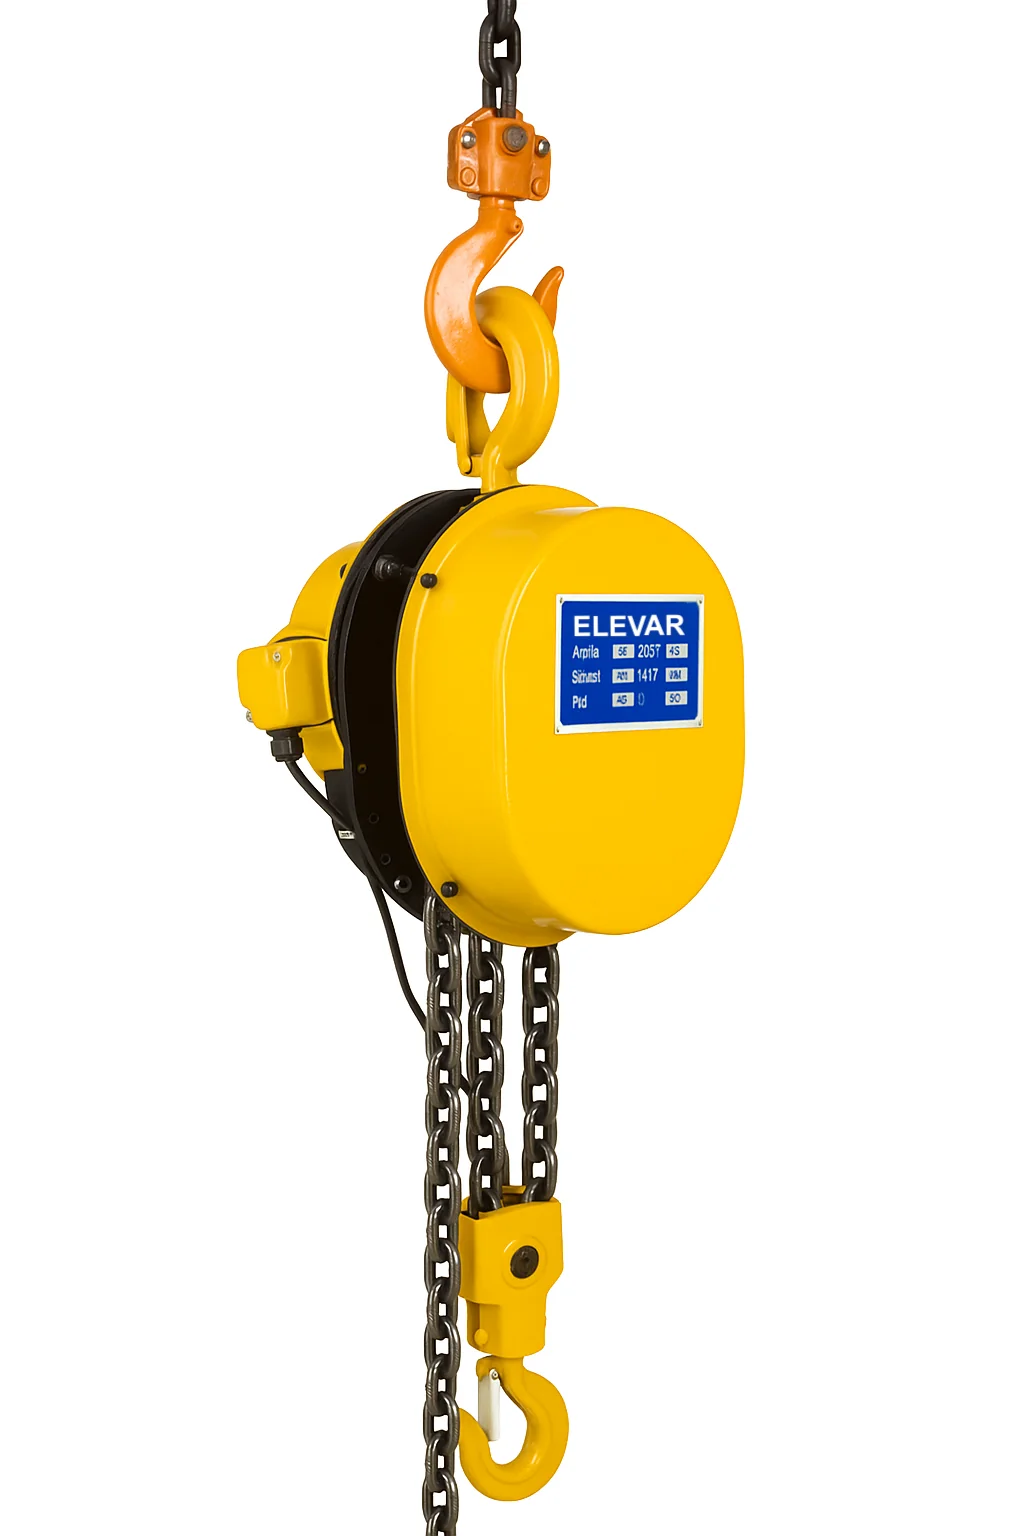
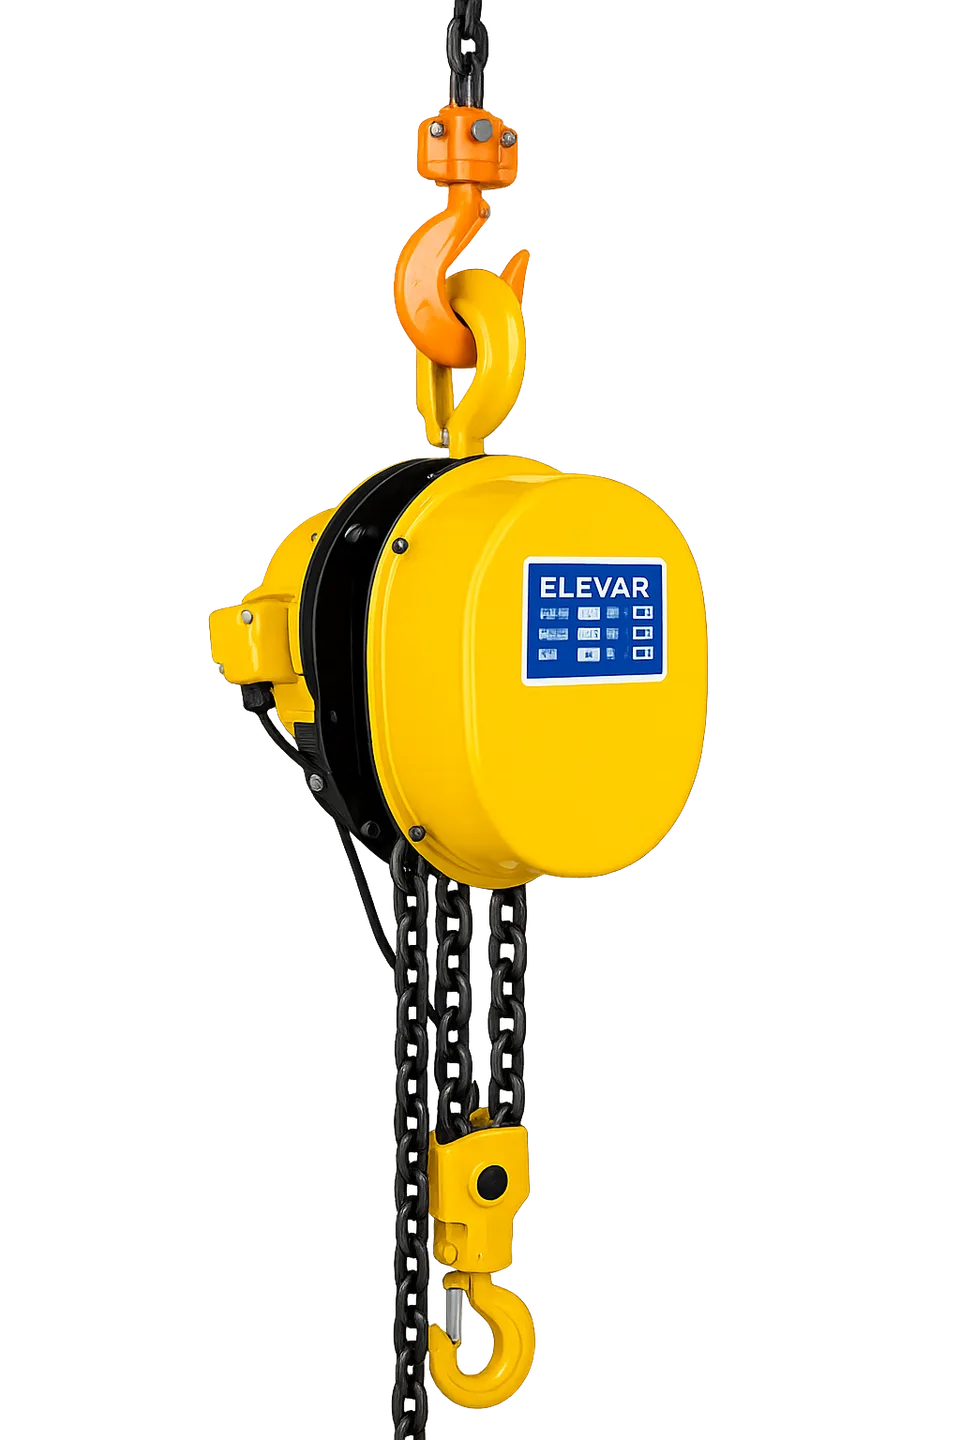
feat: update product images to webp format

diff --git a/data/products.ts b/data/products.ts
@@ -126,7 +126,7 @@ export const products: Product[] = [
       },
     ],
     image: {
-      src: "/products/talha-manual-es.png",
+      src: "/products/talha-manual-es.webp",
       width: 1024,
       height: 1536,
       alt: "Talha manual de corrente Elevar Compacta, corpo amarelo com placa preta, corrente de carga preta e corrente de manobra prateada",
@@ -165,7 +165,7 @@ export const products: Product[] = [
         "Tabela da versão 1 velocidade. Versão 2 velocidades: potências de 0,37/1,1 a 3/1,1 kW e elevação de 0,9 a 7,2 m/min.",
     },
     image: {
-      src: "/products/talha-eletrica-tm.png",
+      src: "/products/talha-eletrica-tm.webp",
       width: 1024,
       height: 1536,
       alt: "Talha elétrica de corrente Elevar série TM, corpo amarelo com corrente e botoeira",
@@ -203,7 +203,7 @@ export const products: Product[] = [
       note: "Elevação de 6 m. Potência de elevação conforme tabela da série TM.",
     },
     image: {
-      src: "/products/talha-eletrica-trole.png",
+      src: "/products/talha-eletrica-trole.webp",
       width: 1024,
       height: 1536,
       alt: "Talha elétrica de corrente Elevar com trole, montada em barra de translação",
@@ -240,7 +240,7 @@ export const products: Product[] = [
       note: "Velocidades de elevação de 1 a 2,5 m/min conforme capacidade.",
     },
     image: {
-      src: "/products/talha-eletrica-dhy.png",
+      src: "/products/talha-eletrica-dhy.webp",
       width: 1024,
       height: 1536,
       alt: "Talha elétrica de corrente Elevar série DHY, corpo circular amarelo com corrente de carga",
@@ -305,7 +305,7 @@ const extraProducts: Product[] = [
     capacity: "0,75 – 3 t",
     refCode: "TAL.ALA",
     image: {
-      src: "/products/talha-alavanca-tae.png",
+      src: "/products/talha-alavanca-tae.webp",
       width: 1024,
       height: 1536,
       alt: "Talha manual de alavanca Elevar série TAE, corpo amarelo com corrente de carga e gancho com trava",
@@ -342,7 +342,7 @@ const extraProducts: Product[] = [
     capacity: "2 – 10 t",
     refCode: "TBA",
     image: {
-      src: "/products/talha-baixa-altura-tba.png",
+      src: "/products/talha-baixa-altura-tba.webp",
       width: 1024,
       height: 1536,
       alt: "Talha de baixa altura Elevar série TBA, corpo amarelo de perfil reduzido com corrente de carga",
@@ -382,7 +382,7 @@ const extraProducts: Product[] = [
     capacity: "1 – 20 t",
     refCode: "TBE",
     image: {
-      src: "/products/talha-eletrica-cabo-tbe.png",
+      src: "/products/talha-eletrica-cabo-tbe.webp",
       width: 1536,
       height: 1024,
       alt: "Talha elétrica de cabo de aço Elevar série TBE, unidade horizontal com tambor enrolador e moitão inferior",
@@ -424,7 +424,7 @@ const extraProducts: Product[] = [
     capacity: "0,5 – 10 t",
     refCode: "TRO-MEC",
     image: {
-      src: "/products/trole-mecanico-tme.png",
+      src: "/products/trole-mecanico-tme.webp",
       width: 1024,
       height: 1536,
       alt: "Trole mecânico Elevar série TME em viga, corpo amarelo acionado por corrente manual",
@@ -463,7 +463,7 @@ const extraProducts: Product[] = [
     capacity: "1 – 5 t",
     refCode: "TRO-MAN",
     image: {
-      src: "/products/trole-manual-te.png",
+      src: "/products/trole-manual-te.webp",
       width: 1024,
       height: 1536,
       alt: "Trole manual Elevar série TE, carro de translação amarelo e preto para viga, sem motor",
@@ -499,7 +499,7 @@ const extraProducts: Product[] = [
     capacity: "1 – 5 t",
     refCode: "TEE",
     image: {
-      src: "/products/trole-eletrico-tee.png",
+      src: "/products/trole-eletrico-tee.webp",
       width: 1536,
       height: 1024,
       alt: "Trole elétrico Elevar série TEE, carro de translação amarelo com motor elétrico",
@@ -691,7 +691,7 @@ const extraProducts: Product[] = [
     capacity: "3,5 – 70 t",
     refCode: "CEP",
     image: {
-      src: "/products/cadernal-extra-pesado-cep.png",
+      src: "/products/cadernal-extra-pesado-cep.webp",
       width: 1536,
       height: 1024,
       alt: "Cadernal extra pesado Elevar série CEP, par de blocos de roldanas amarelos com gancho",
@@ -732,7 +732,7 @@ const extraProducts: Product[] = [
     capacity: "0,5 – 15 t",
     refCode: "GAN",
     image: {
-      src: "/products/gancho-com-olhal.png",
+      src: "/products/gancho-com-olhal.webp",
       width: 1024,
       height: 1536,
       alt: "Gancho com olhal Elevar em aço forjado, com trava de segurança",